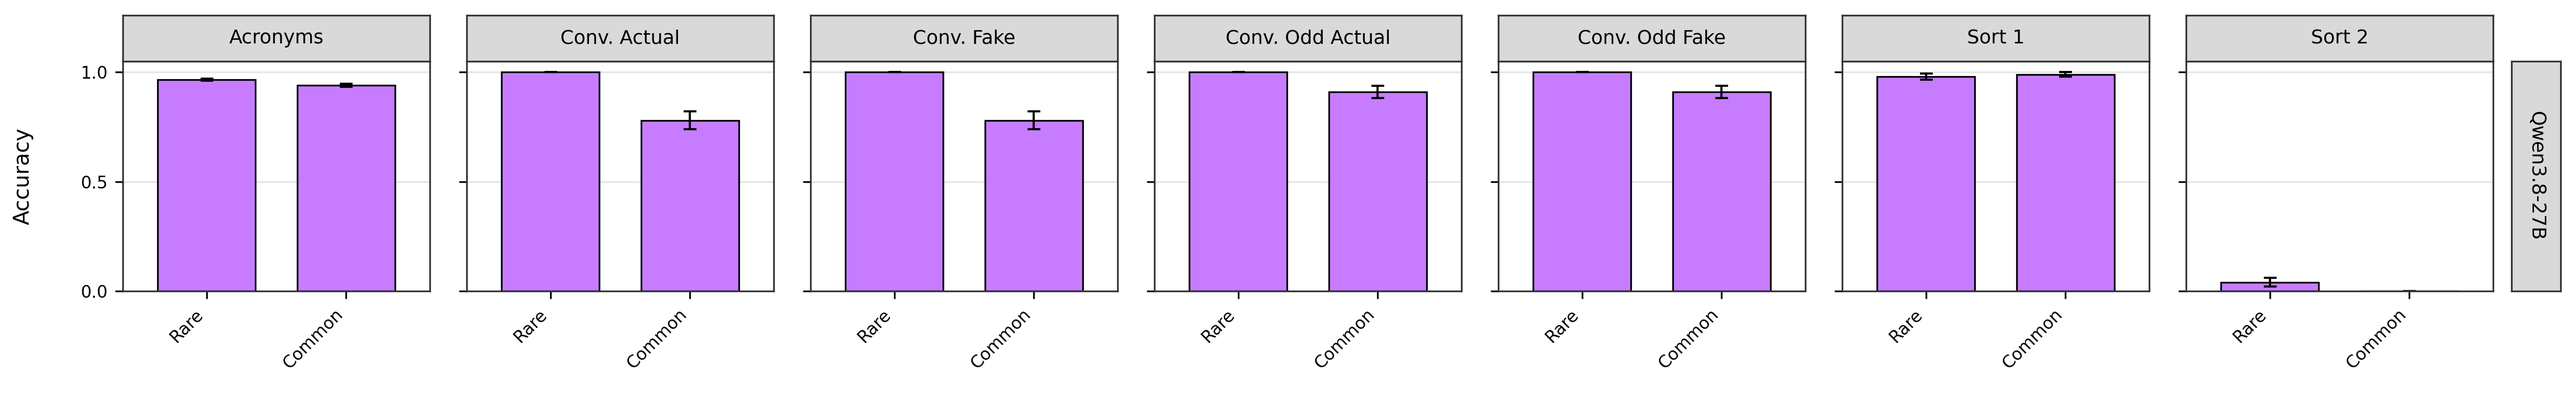
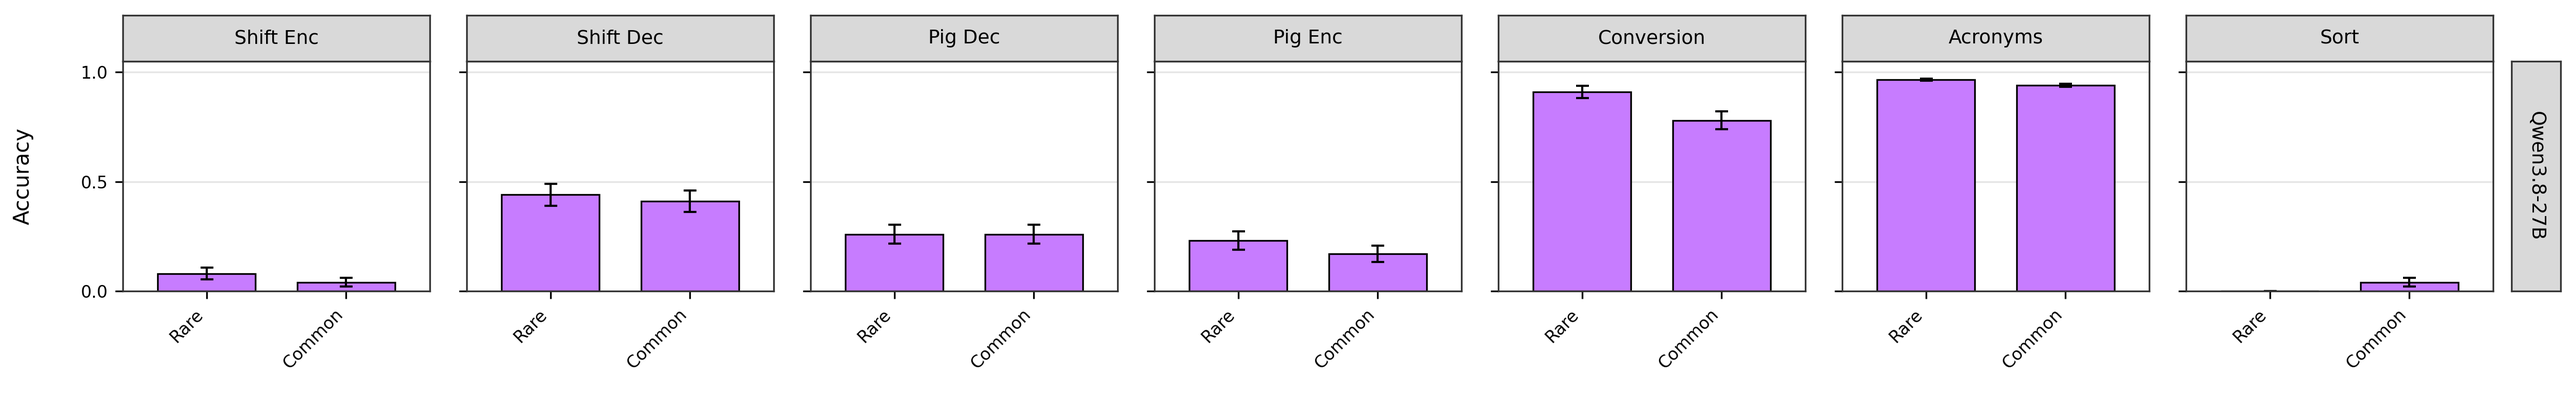
Updated bar_graphs.py for only qwen and correct jsons

diff --git a/rare_vs_common_graphs.py b/rare_vs_common_graphs.py
@@ -28,47 +28,47 @@ def f(prefix, data_dir):
 # column title -> {model label: {"rare": path, "common": path}}
 # Add more models as extra entries, more columns as extra keys.
 COLUMNS = {
-    "Acronyms": {
+    "Shift Enc": {
         #"gpt-oss-20b": {"rare": f("acronym2_11", DATA_DIR), 
         #                "common": f("acronym1_11", DATA_DIR)},
+        "Qwen3.8-27B": {"rare": f("rot12enc_mediumprob", DATA_DIR2), 
+                        "common": f("rot13enc_mediumprob", DATA_DIR2)},
+    },
+    "Shift Dec": {
+        #"gpt-oss-20b": {"rare": f("conversion_actualinverse", DATA_DIR),
+        #                "common": f("conversion_actual", DATA_DIR)},
+        "Qwen3.8-27B": {"rare": f("rot12dec_mediumprob", DATA_DIR2), 
+                        "common": f("rot13dec_mediumprob", DATA_DIR2)},
+    },
+    "Pig Dec": {
+        #"gpt-oss-20b": {"rare": f("conversion_fakeinverse", DATA_DIR),
+        #                "common": f("conversion_fake", DATA_DIR)},
+        "Qwen3.8-27B": {"rare": f("pigenc_uv_mediumprob", DATA_DIR2), 
+                        "common": f("pigenc_ay_mediumprob", DATA_DIR2)},
+    },
+    "Pig Enc": {
+        #"gpt-oss-20b": {"rare": f("conversion_ood_actualinverse", DATA_DIR),
+        #                "common": f("conversion_ood_actual", DATA_DIR)},
+        "Qwen3.8-27B": {"rare": f("pigdec_uv_mediumprob", DATA_DIR2), 
+                        "common": f("pigdec_ay_mediumprob", DATA_DIR2)},
+    },
+    "Conversion": {
+        #"gpt-oss-20b": {"rare": f("conversion_ood_fakeinverse", DATA_DIR),
+        #                "common": f("conversion_ood_fake", DATA_DIR)},
+        "Qwen3.8-27B": {"rare": f("conversion_ood_actual", DATA_DIR2), 
+                        "common": f("conversion_actual", DATA_DIR2)},
+    },
+    "Acronyms": {
+        #"gpt-oss-20b": {"rare": f("sorting_descending", DATA_DIR),
+        #                "common": f("sorting_ascending", DATA_DIR)},
         "Qwen3.8-27B": {"rare": f("acronym2_11", DATA_DIR2), 
                         "common": f("acronym1_11", DATA_DIR2)},
     },
-    "Conv. Actual": {
-        #"gpt-oss-20b": {"rare": f("conversion_actualinverse", DATA_DIR),
-        #                "common": f("conversion_actual", DATA_DIR)},
-        "Qwen3.8-27B": {"rare": f("conversion_actualinverse", DATA_DIR2), 
-                        "common": f("conversion_actual", DATA_DIR2)},
-    },
-    "Conv. Fake": {
-        #"gpt-oss-20b": {"rare": f("conversion_fakeinverse", DATA_DIR),
-        #                "common": f("conversion_fake", DATA_DIR)},
-        "Qwen3.8-27B": {"rare": f("conversion_fakeinverse", DATA_DIR2), 
-                        "common": f("conversion_fake", DATA_DIR2)},
-    },
-    "Conv. Odd Actual": {
-        #"gpt-oss-20b": {"rare": f("conversion_ood_actualinverse", DATA_DIR),
-        #                "common": f("conversion_ood_actual", DATA_DIR)},
-        "Qwen3.8-27B": {"rare": f("conversion_ood_actualinverse", DATA_DIR2), 
-                        "common": f("conversion_ood_actual", DATA_DIR2)},
-    },
-    "Conv. Odd Fake": {
-        #"gpt-oss-20b": {"rare": f("conversion_ood_fakeinverse", DATA_DIR),
-        #                "common": f("conversion_ood_fake", DATA_DIR)},
-        "Qwen3.8-27B": {"rare": f("conversion_ood_fakeinverse", DATA_DIR2), 
-                        "common": f("conversion_ood_fake", DATA_DIR2)},
-    },
-    "Sort 1": {
-        #"gpt-oss-20b": {"rare": f("sorting_descending", DATA_DIR),
-        #                "common": f("sorting_ascending", DATA_DIR)},
-        "Qwen3.8-27B": {"rare": f("sorting_descending", DATA_DIR2), 
-                        "common": f("sorting_ascending", DATA_DIR2)},
-    },
-    "Sort 2": {
+    "Sort": {
         #"gpt-oss-20b": {"rare": f("sorting_fwd", DATA_DIR),
         #                "common": f("sorting_rev", DATA_DIR)},
-        "Qwen3.8-27B": {"rare": f("sorting_fwd", DATA_DIR2), 
-                        "common": f("sorting_rev", DATA_DIR2)},
+        "Qwen3.8-27B": {"rare": f("sorting_rev", DATA_DIR2), 
+                        "common": f("sorting_fwd", DATA_DIR2)},
     },
 }
 REQUIRED_KEYS = {"prompts", "gts", "res", "accs", "acc", "eds", "ed"}
